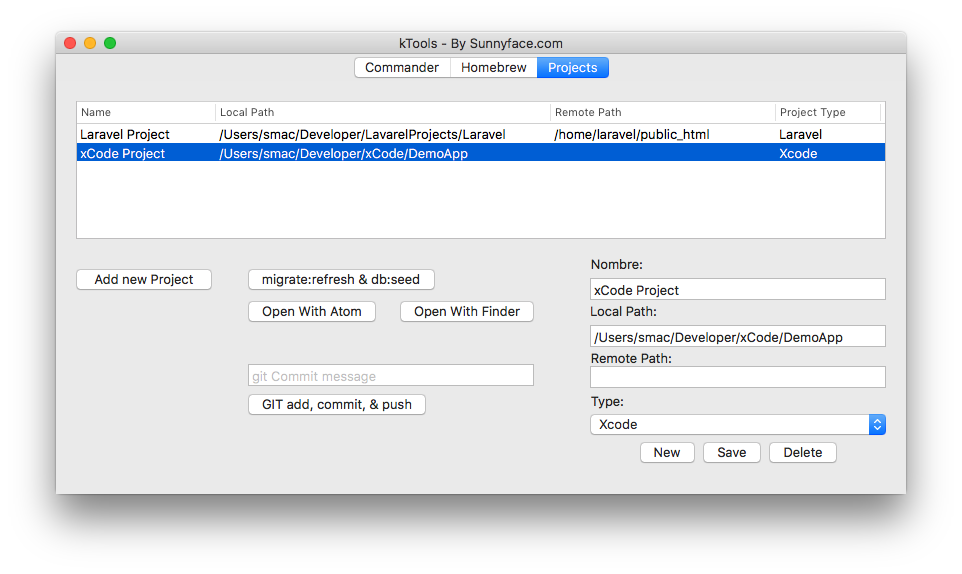
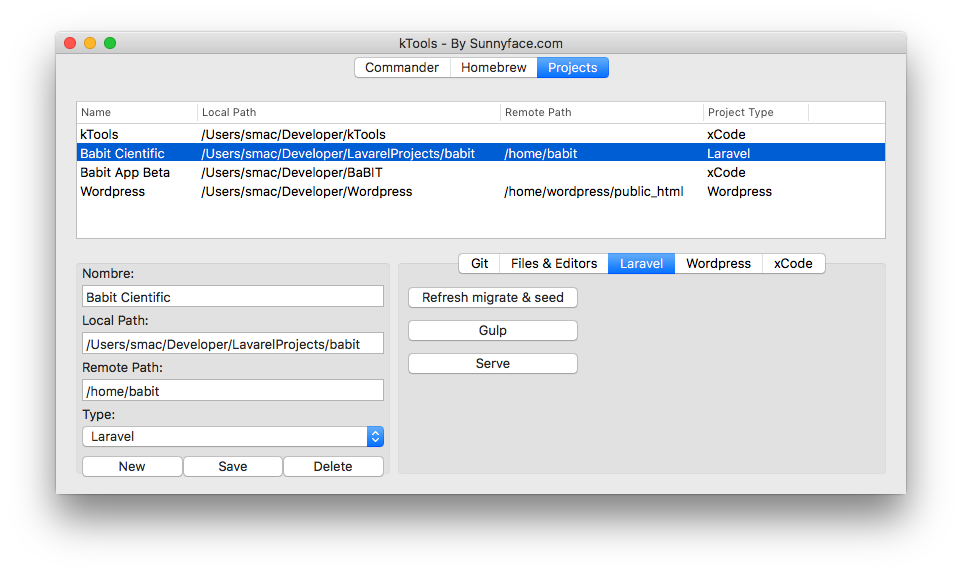
Updated Projects Tab Screenshot

diff --git a/kTools/Controllers/ProjectsController.swift b/kTools/Controllers/ProjectsController.swift
@@ -17,7 +17,7 @@ class ProjectsController: NSViewController {
     let dbManager = PlistManager.sharedInstance
     var projects: Array<Dictionary<String, String>> = []
     var currProject: Int = -1
-    var projectTypeSources = ["Laravel", "xCode", "Mean", "Android"];
+    var projectTypeSources = ["Laravel", "xCode", "Mean", "Wordpress", "Android"];
     
     @IBOutlet weak var projectsTable: NSTableView!
     @IBOutlet weak var nameTf: NSTextField!
@@ -68,6 +68,8 @@ class ProjectsController: NSViewController {
         
     }
     
+    // MARK: File system and editor
+    
     @IBAction func atomAction(_ sender: NSButton) {
         
         let localPath = lPathTf.stringValue
@@ -76,9 +78,13 @@ class ProjectsController: NSViewController {
         }
         
         let atomPath = cmd.whichPath(executable: "atom")
-        let command = "\(atomPath) localPath"
-        let res = command.runAsCommand()
-        print(res)
+        if atomPath.characters.count>1 {
+            let command = "atom \(localPath)/"
+            let res = command.runAsCommand()
+            print(res)
+        }
+        
+       
         
     }
     
@@ -223,6 +229,12 @@ extension ProjectsController: NSTabViewDelegate {
                 }
             } else if curProjectType == "Laravel" {
                 if  tbId  == "lara" || tbId == "git" || tbId == "atom"{
+                    return true
+                } else {
+                    return false
+                }
+            } else if curProjectType == "Wordpress" {
+                if  tbId  == "wp" || tbId == "git" || tbId == "atom"{
                     return true
                 } else {
                     return false

diff --git a/kTools/Tools/CommandLine.swift b/kTools/Tools/CommandLine.swift
@@ -42,7 +42,7 @@ class Commander {
         task.environment = ENV
         task.launchPath = cmd
         task.arguments = args
-        task.currentDirectoryPath = "/usr/local/bin"
+        //task.currentDirectoryPath = "/usr/local/bin"
         
         let outpipe = Pipe()
         task.standardOutput = outpipe

diff --git a/kTools/Lib/Cons.swift b/kTools/Lib/Cons.swift
@@ -10,7 +10,7 @@ import Foundation
 
 enum App:String {
     case name = "kTools"
-    case version = "0.0.1"
+    case version = "0.0.2"
 }
 
 enum ExecPaths: String {
